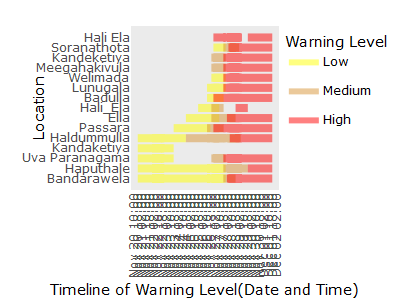
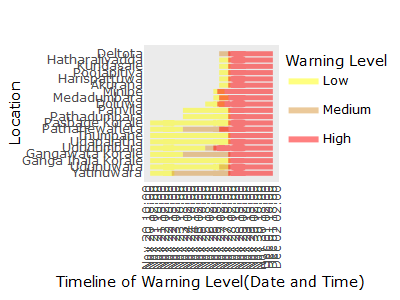
updated

Changed region(s): [[0.03, 0.09, 0.99, 1.0], [0.03, 0.27, 0.06, 0.48], [0.72, 0.45, 0.9, 0.48]]

diff --git a/README.md b/README.md
@@ -45,5 +45,7 @@ head(ditwah_landslides_warnings)
 ```
 
 ``` r
-viz_landslide_warnings_from_to(province = "Uva", district = "Badulla", interactivity=FALSE)
+viz_landslide_warnings_from_to(province = "Central", district = "Kandy", interactivity=FALSE)
 ```
+
+<img src="man/figures/README-unnamed-chunk-2-1.png" width="100%" />
